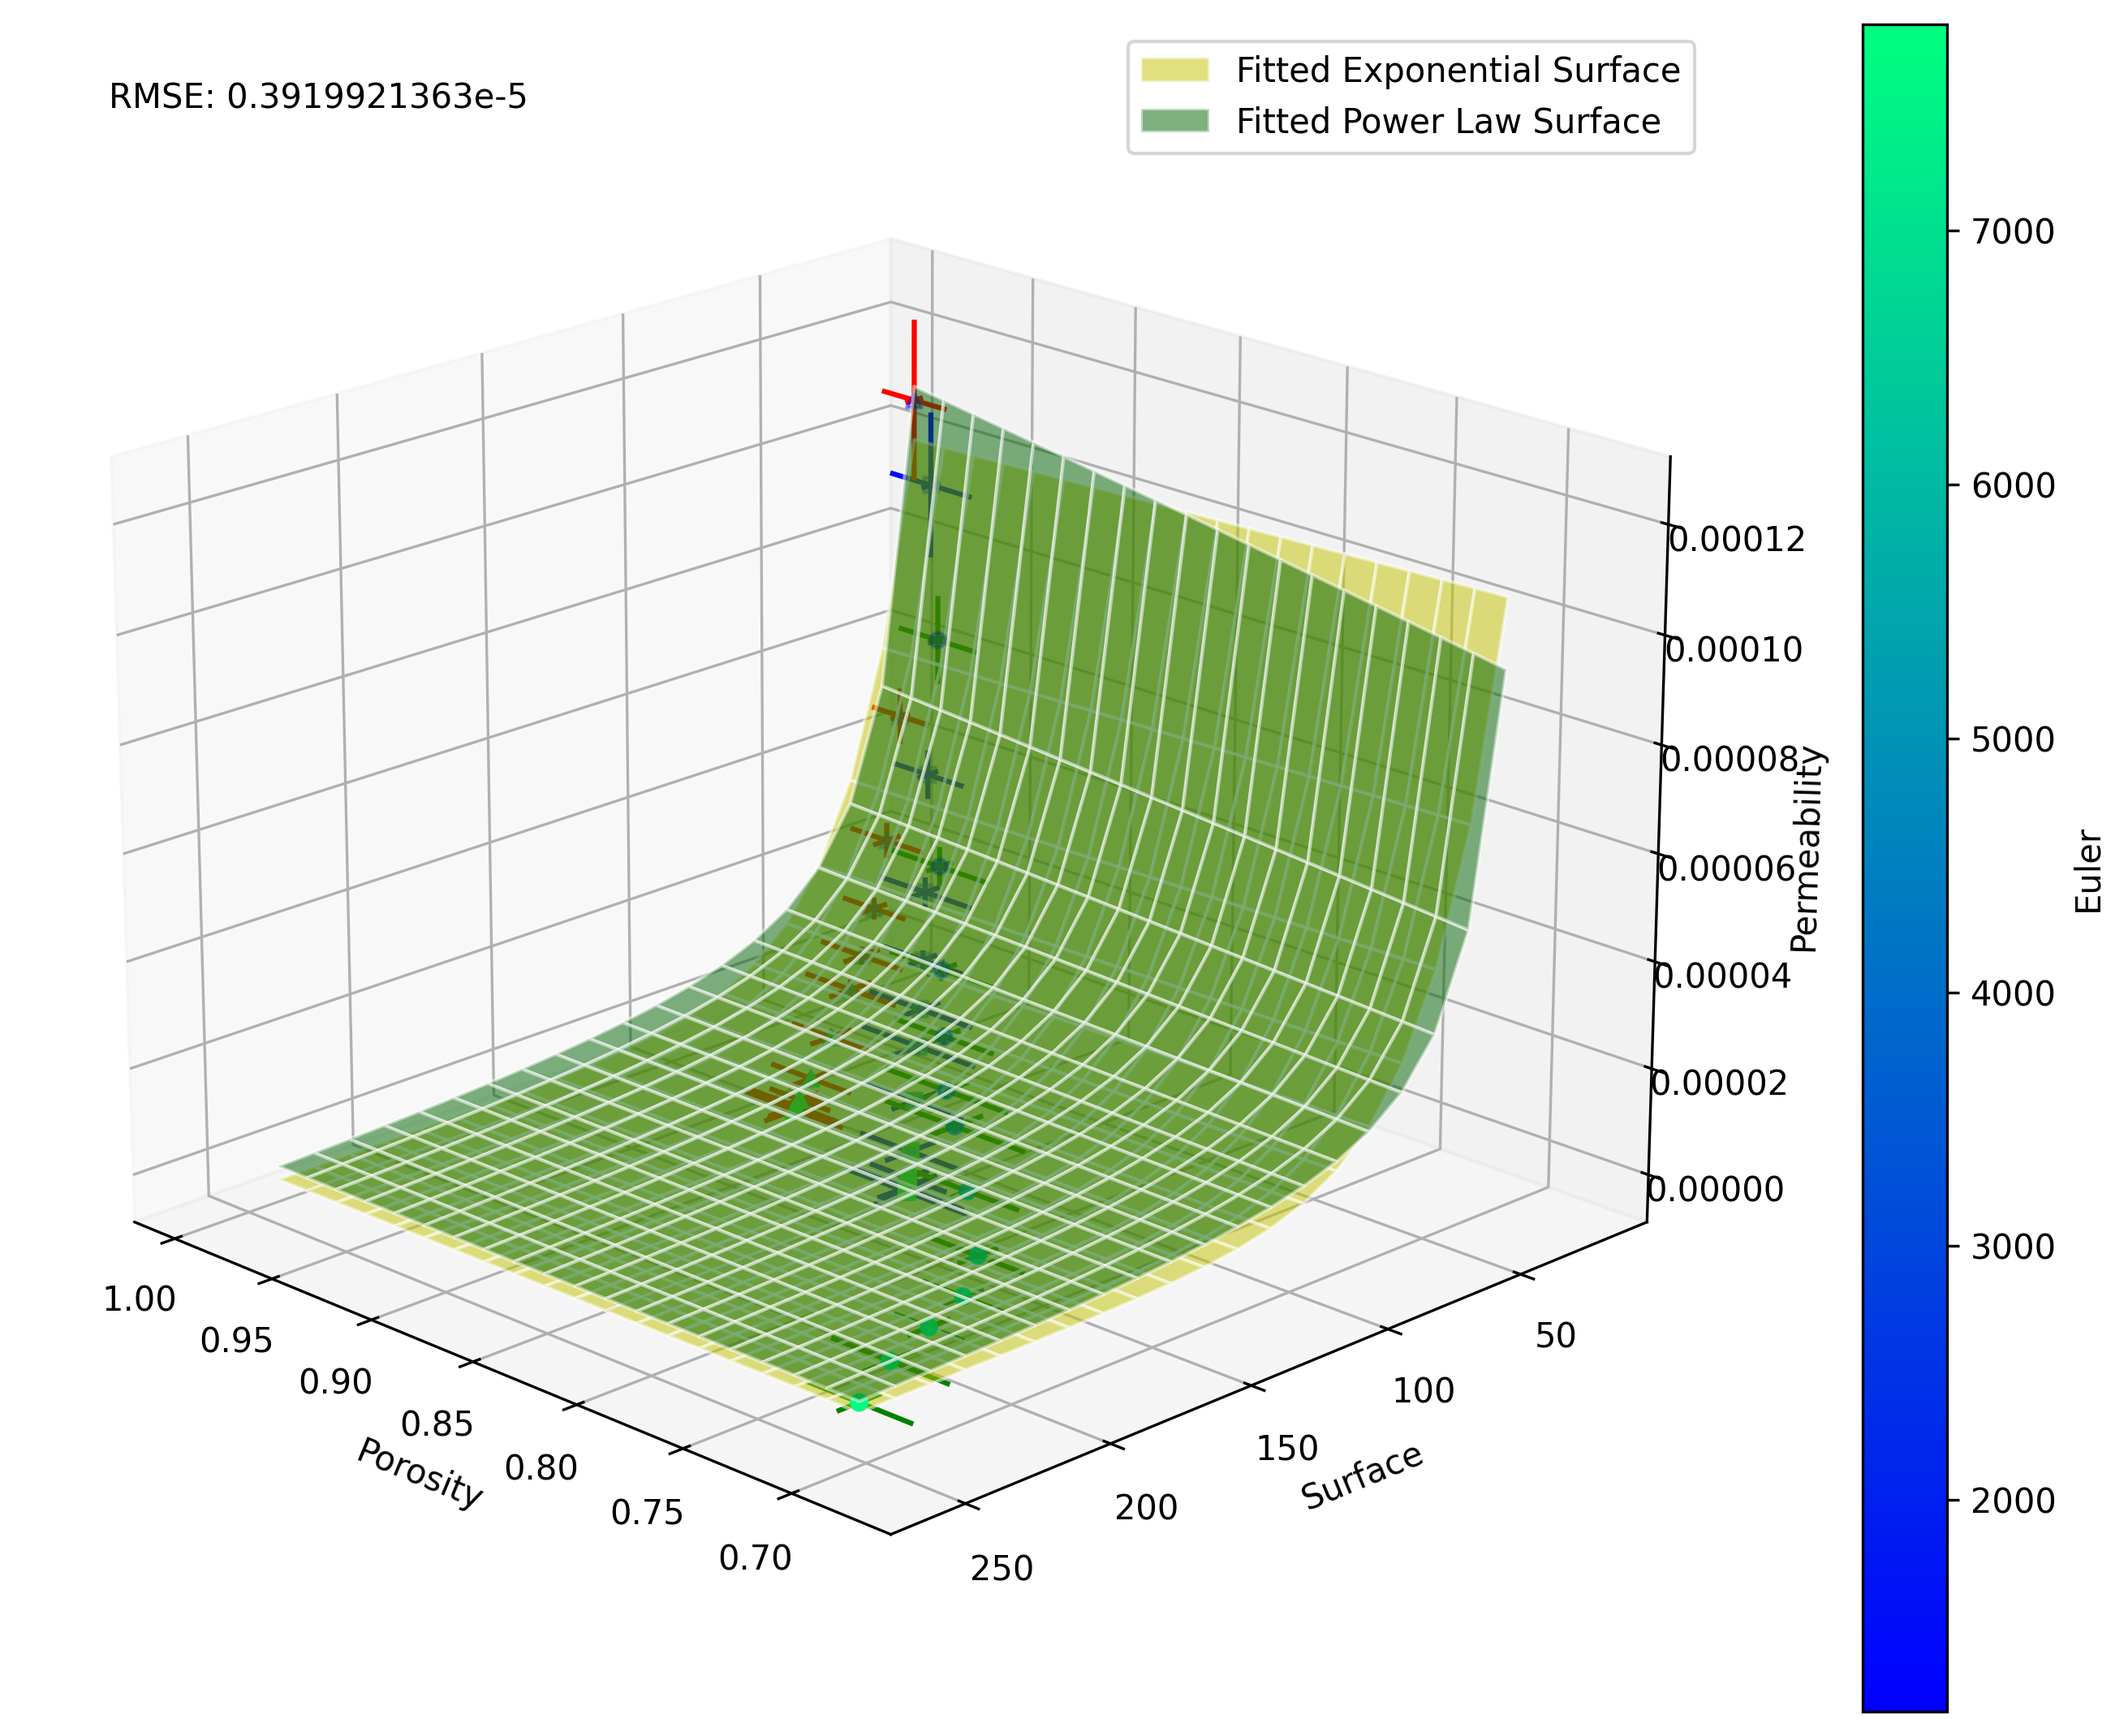
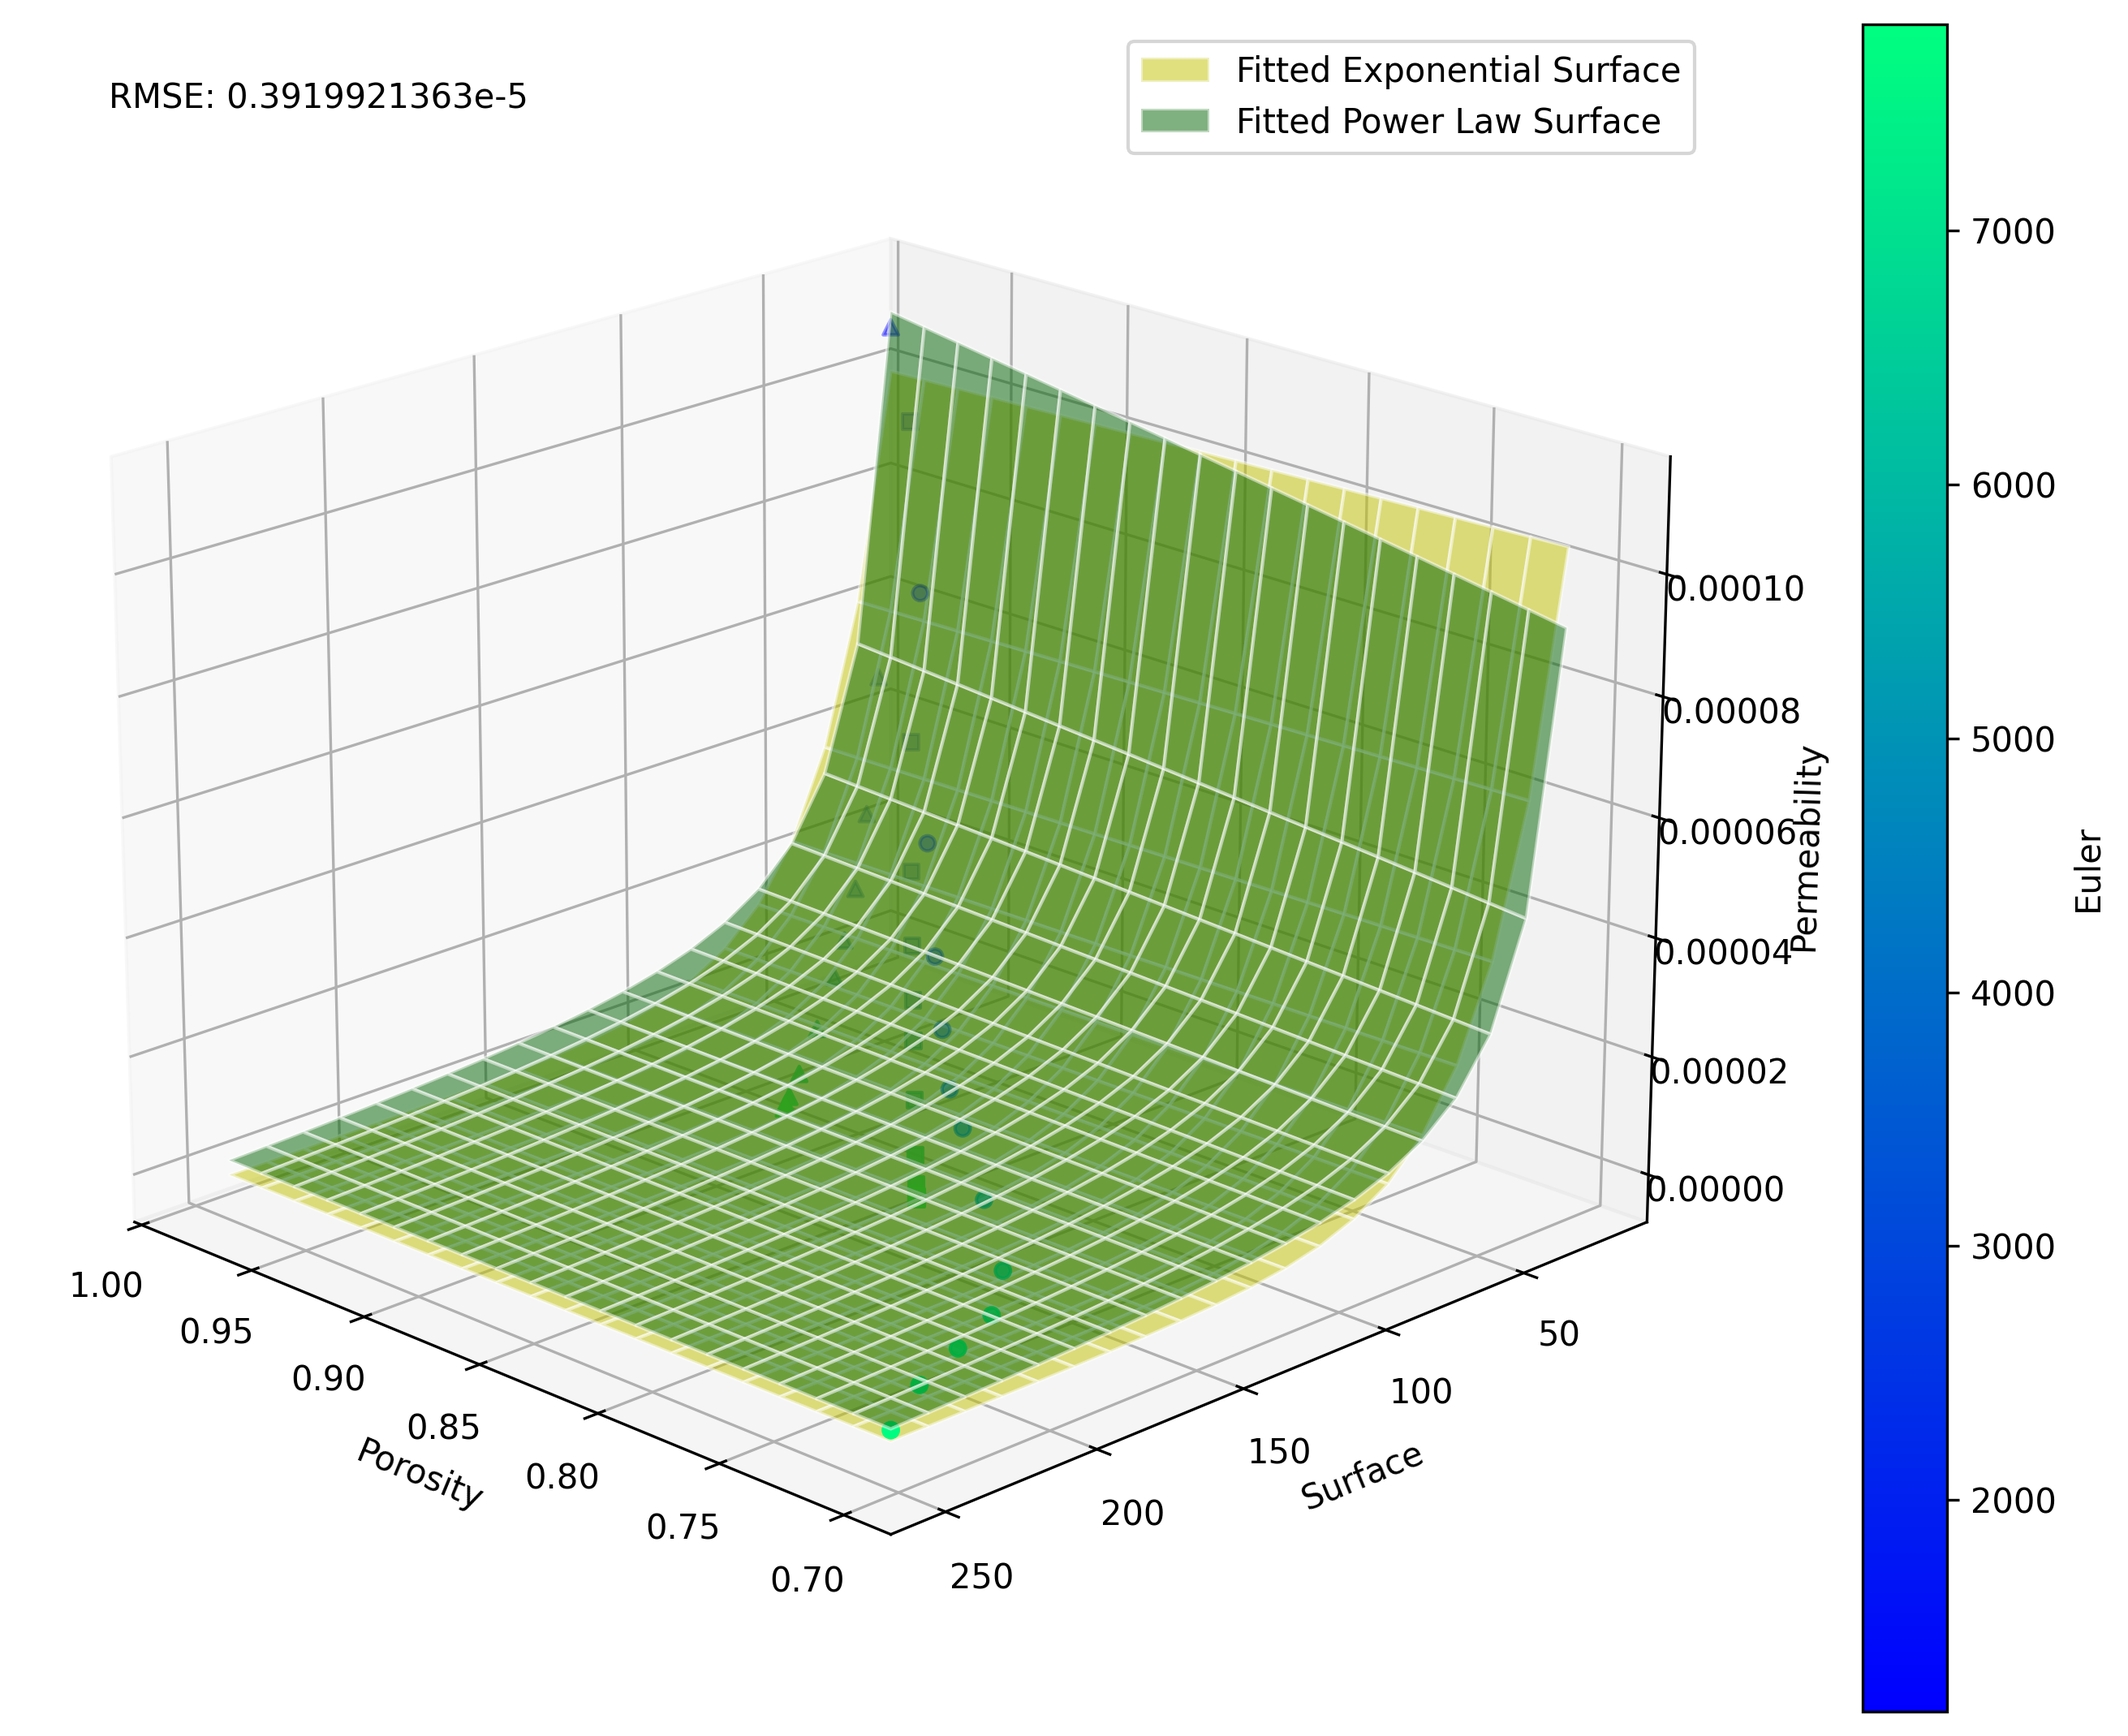
micul push

diff --git a/3d_plots.py b/3d_plots.py
@@ -32,14 +32,14 @@ VARIANCE=False
 
 ################ READING ALL THE FILES IN THE FOLDER ################
 script_dir = os.path.dirname(__file__)
-sub_path = 'Porespy_homogenous_diamater'
+sub_path = 'Threshold_homogenous_diamater_wide_RCP'
 path = os.path.join(script_dir, sub_path)
 variance_path=os.path.join(script_dir, 'Summaries', sub_path)
 # all_files = glob.glob(os.path.join(path, "*0.300*.csv"))
 all_files = glob.glob(os.path.join(path, "*rectangle*.csv"))
 df_from_each_file = (pd.read_csv(f).mean(axis=0).to_frame().T for f in all_files)
 concatenated_df_rectangle = pd.concat(df_from_each_file, ignore_index=True)
-#print(concatenated_df_rectangle['Permeability'])
+
 # concatenated_df_rectangle['Permeability'] = concatenated_df_rectangle['Permeability'] * 1e5
 # concatenated_df_rectangle['Energy'] = concatenated_df_rectangle['Energy'] * 1e5
 
@@ -117,9 +117,6 @@ sigma_permeability_triangle = np.sqrt(variance_permeability_triangle) * mean_per
 sigma_surface_triangle = np.sqrt(variance_surface_triangle) * mean_surface_triangle
 
 
-# concated_df = pd.concat([concatenated_df_rectangle, concatenated_df_triangle], ignore_index=True)
-# concated_df = pd.concat([concatenated_df_ellipse], ignore_index=True)
-#print(concated_df)
 
 def plot_box_and_whisker(ax, x, y, z, sigma_x, sigma_y, sigma_z, color):
         #debugging
@@ -143,11 +140,6 @@ for i in range(len(concatenated_df_rectangle)):
     average_samples.append(avg_sample)
 average_samples = pd.DataFrame(average_samples)
 
-# print(average_samples)
-# print(concatenated_df_rectangle)
-# print(concatenated_df_triangle)
-# print(concatenated_df_ellipse)
-
 concatenated_df_rectangle['Euler_total'] = 'Rectangle'
 concatenated_df_triangle['Euler_total'] = 'Triangle'
 concatenated_df_ellipse['Euler_total'] = 'Ellipse'
@@ -161,17 +153,10 @@ ax = fig.add_subplot(111, projection='3d')
 all_colors = pd.concat([concatenated_df_rectangle['Permeability'], concatenated_df_triangle['Permeability'], concatenated_df_ellipse['Permeability']])
 min_color = all_colors.min()
 max_color = all_colors.max()
-#ax.scatter(concatenated_df_rectangle['Porosity'], concatenated_df_rectangle['Surface'], concatenated_df_rectangle['Euler_mean_vol'], c=concatenated_df_rectangle['Permeability'], cmap='winter', marker='s')
-#ax.scatter(concatenated_df_triangle['Porosity'], concatenated_df_triangle['Surface'], concatenated_df_triangle['Euler_mean_vol'], c=concatenated_df_triangle['Permeability'], cmap='winter', marker='^')
-#ax.scatter(concatenated_df_ellipse['Porosity'], concatenated_df_ellipse['Surface'], concatenated_df_ellipse['Euler_mean_vol'], c=concatenated_df_ellipse['Permeability'], cmap='winter', marker='o')
 sc1 = ax.scatter(concatenated_df_triangle['Porosity'], concatenated_df_triangle['Surface'], concatenated_df_triangle['Euler_mean_vol'], c=concatenated_df_triangle['Permeability'], cmap='winter', marker='^', vmin=min_color, vmax=max_color)
-
 sc2 = ax.scatter(concatenated_df_rectangle['Porosity'], concatenated_df_rectangle['Surface'], concatenated_df_rectangle['Euler_mean_vol'], c=concatenated_df_rectangle['Permeability'], cmap='winter', marker='s', vmin=min_color, vmax=max_color)
-
 sc3 = ax.scatter(concatenated_df_ellipse['Porosity'], concatenated_df_ellipse['Surface'], concatenated_df_ellipse['Euler_mean_vol'], c=concatenated_df_ellipse['Permeability'], cmap='winter', marker='o', vmin=min_color, vmax=max_color)
-#fig.colorbar(sc1, ax=ax, label='Permeability')
 cbar = plt.colorbar(sc1, ax=ax, label='Permeability')
-
 ax.set_xlabel('Porosity')
 ax.set_ylabel('Surface')
 ax.set_zlabel('Euler Mean Volume')
@@ -184,36 +169,24 @@ x = np.linspace(min(concated_df['Porosity']), max(concated_df['Porosity']), 100)
 y = np.linspace(min(concated_df['Surface']), max(concated_df['Surface']), 100)
 x_grid, y_grid = np.meshgrid(x, y)
 
-
 X = concated_df[['Porosity', 'Surface']]
 y = concated_df['Euler_mean_vol']
 linear_model = LinearRegression()
 linear_model.fit(X, y)
 # print(linear_model.coef_)
-
-
 z_grid = linear_model.predict(np.c_[x_grid.ravel(), y_grid.ravel()]).reshape(x_grid.shape)
 
 
 fig = plt.figure()
 ax = fig.add_subplot(111, projection='3d')
 ax.plot_surface(x_grid, y_grid, z_grid, cmap='Reds', alpha=0.7)
-
-
 all_colors = pd.concat([concatenated_df_rectangle['Permeability'], concatenated_df_triangle['Permeability'], concatenated_df_ellipse['Permeability']])
 min_color = all_colors.min()
 max_color = all_colors.max()
-#ax.scatter(concatenated_df_rectangle['Porosity'], concatenated_df_rectangle['Surface'], concatenated_df_rectangle['Euler_mean_vol'], c=concatenated_df_rectangle['Permeability'], cmap='winter', marker='s')
-#ax.scatter(concatenated_df_triangle['Porosity'], concatenated_df_triangle['Surface'], concatenated_df_triangle['Euler_mean_vol'], c=concatenated_df_triangle['Permeability'], cmap='winter', marker='^')
-#ax.scatter(concatenated_df_ellipse['Porosity'], concatenated_df_ellipse['Surface'], concatenated_df_ellipse['Euler_mean_vol'], c=concatenated_df_ellipse['Permeability'], cmap='winter', marker='o')
 sc1 = ax.scatter(concatenated_df_triangle['Porosity'], concatenated_df_triangle['Surface'], concatenated_df_triangle['Euler_mean_vol'], c=concatenated_df_triangle['Permeability'], cmap='winter', marker='^', vmin=min_color, vmax=max_color)
-
 sc2 = ax.scatter(concatenated_df_rectangle['Porosity'], concatenated_df_rectangle['Surface'], concatenated_df_rectangle['Euler_mean_vol'], c=concatenated_df_rectangle['Permeability'], cmap='winter', marker='s', vmin=min_color, vmax=max_color)
-
 sc3 = ax.scatter(concatenated_df_ellipse['Porosity'], concatenated_df_ellipse['Surface'], concatenated_df_ellipse['Euler_mean_vol'], c=concatenated_df_ellipse['Permeability'], cmap='winter', marker='o', vmin=min_color, vmax=max_color)
-#fig.colorbar(sc1, ax=ax, label='Permeability')
 cbar = plt.colorbar(sc1, ax=ax, label='Permeability')
-
 ax.set_xlabel('Porosity')
 ax.set_ylabel('Surface')
 ax.set_zlabel('Euler Mean Volume')
@@ -263,11 +236,6 @@ ydata_ellipse = concatenated_df_ellipse['Permeability']
 t = np.linspace(0, len(average_samples) - 1, len(average_samples))
 t_interp = np.linspace(0, len(average_samples) - 1, 30)
 
-# Interpolating each feature
-# porosity_interp = make_interp_spline(t, xdata_rectangle[0], k=1)(t_interp)
-# surface_interp = make_interp_spline(t, xdata_rectangle[1], k=1)(t_interp)
-# euler_mean_vol_interp = make_interp_spline(t, xdata_rectangle[2], k=1)(t_interp)
-
 # Function to interpolate features and combine into a DataFrame
 def interpolate_features(xdata, t, t_interp):
     porosity_interp = make_interp_spline(t, xdata[0], k=1)(t_interp)
@@ -290,22 +258,6 @@ ydata_ellipse_interpolated = make_interp_spline(t, ydata_ellipse, k=1)(t_interp)
 # Calculate the average of interpolated samples
 average_xdata_interp = (xdata_rectangle_interpolated + xdata_triangle_interpolated + xdata_ellipse_interpolated) / 3
 average_ydata_interp = (ydata_rectangle_interpolated + ydata_triangle_interpolated + ydata_ellipse_interpolated) / 3
-#print(average_xdata_interp)
-
-    ################ PLOTTING INTERPOLATED SAMPLES ################
-    # fig = plt.figure()
-# ax = fig.add_subplot(111, projection='3d')
-# ax.scatter(xdata_rectangle_interpolated['Porosity'], xdata_rectangle_interpolated['Surface'], xdata_rectangle_interpolated['Euler_mean_vol'], c='b', marker='s', label='Rectangle')
-# ax.scatter(xdata_triangle_interpolated['Porosity'], xdata_triangle_interpolated['Surface'], xdata_triangle_interpolated['Euler_mean_vol'], c='r', marker='^', label='Triangle')
-# ax.scatter(xdata_ellipse_interpolated['Porosity'], xdata_ellipse_interpolated['Surface'], xdata_ellipse_interpolated['Euler_mean_vol'], c='g', marker='o', label='Ellipse')
-# ax.scatter(average_xdata_interp['Porosity'], average_xdata_interp['Surface'], average_xdata_interp['Euler_mean_vol'], c='y', marker='o', label='Average Samples')
-# ax.set_xlabel('Porosity')
-# ax.set_ylabel('Surface')
-# ax.set_zlabel('Euler Mean Volume')
-# ax.legend()
-# plt.show()
-
-
 
 
 ################ APPLYING KOZENY-CARMAN ################
@@ -346,33 +298,6 @@ ax.legend()
 ax.view_init(elev=20, azim=205)
 plt.savefig(os.path.join(path, 'kozeny_line.png'), dpi=300, bbox_inches='tight', pad_inches=0.1)
 plt.show()
-
-
-
-
-
-################# KOZENY-CARMAN SURFACE PLOT ################
-
-# Y, Z = np.meshgrid(np.linspace(np.max(average_xdata_interp['Porosity']), np.min(average_xdata_interp['Porosity']), 100), np.linspace(np.min(average_ydata_interp), np.max([ydata_rectangle, ydata_triangle, ydata_ellipse]), 100))
-# X = np.linspace(np.min(average_xdata_interp['Surface']), np.max(average_xdata_interp['Surface']), 100)
-# print(ydata_triangle)
-# fig = plt.figure()
-# ax = fig.add_subplot(111, projection='3d')
-# ax.plot_surface(Y, X, Z, cmap='Blues', alpha=0.7)
-# all_colors = pd.concat([xdata_rectangle[2], xdata_triangle[2], xdata_ellipse[2]])
-# min_color = all_colors.min()
-# max_color = all_colors.max()
-# # ax.plot(average_xdata_interp['Porosity'], average_xdata_interp['Surface'], klist, label='Kozeny-Carman Fit', color='y')
-# sc1 = ax.scatter(xdata_rectangle[0], xdata_rectangle[1], ydata_rectangle, c=xdata_rectangle[2], marker='s', cmap='winter', vmin=min_color, vmax=max_color)
-# sc2 = ax.scatter(xdata_triangle[0], xdata_triangle[1], ydata_triangle, c=xdata_triangle[2], marker='^', cmap='winter', vmin=min_color, vmax=max_color)
-# sc3 = ax.scatter(xdata_ellipse[0], xdata_ellipse[1], ydata_ellipse, c=xdata_ellipse[2], marker='o', cmap='winter', vmin=min_color, vmax=max_color)
-# cbar = plt.colorbar(sc1, ax=ax, label='Euler')
-# ax.set_xlabel('Porosity')
-# ax.set_ylabel('Surface')
-# ax.set_zlabel('Permeability')
-# ax.view_init(elev=20, azim=205)
-# plt.savefig(os.path.join(path, 'kozeny_surface.png'), dpi=300, bbox_inches='tight', pad_inches=0.1)
-# plt.show()
 
 
 
